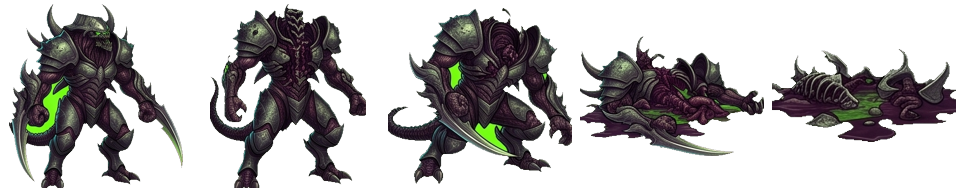
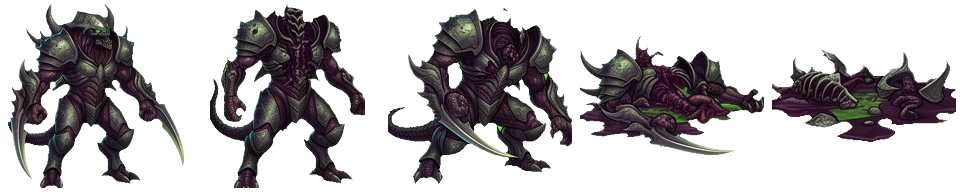
feat(hiveswarm): lane-relative pathfinding, sponge 2x, responsive gate numbers, praetorian death, transparent sheets, start-squad, audio
- Enemies now LANE-RELATIVE (hold a lane -1..1 mapped onto the road's perspective
  width) — they converge at the horizon and fan out, NEVER crossing the walls. Fixes
  'enemies come in from the side'.
- Eldritch Sponge 2x (r24); Psychoid r28.
- Gate numbers climb as fast as bullets hit (hpStep thresholds slashed 24->4).
- Praetorian: death animation now plays fully before level-complete (bossKillT 0.4->1.6);
  intro-pose green flame gone (re-sliced from Eric's cleaned Praetorian02).
- Re-sliced ALL enemies from Eric's re-exported TRANSPARENT sheets (adaptive green/alpha key).
- Starting squad ~5-20 scaling with level + Start-Squad shop (+8, restored).
- Money orbs 50% (coin sfx now audible); all 14 SFX files verified present + wired. ?v=7.

diff --git a/index.html b/index.html
@@ -111,9 +111,9 @@ const BAL = {
     minus: [[-15,-6],[-20,-9],[-26,-12],[-33,-15],[-40,-18],[-48,-22],[-56,-26],[-65,-30],[-75,-35],[-85,-40]],
     mult:  [[1.1,1.3],[1.2,1.4],[1.2,1.5],[1.3,1.6],[1.4,1.7],[1.4,1.8],[1.5,1.9],[1.6,2.0],[1.7,2.2],[1.8,2.4]],
     multCap: [1.5,1.6,1.8,2.0,2.2,2.4,2.6,2.8,3.0,3.2],
-    hpStepPlus: L => Math.round(24 + 4*(L-1)),
-    hpStepMult: L => Math.round(34 + 5*(L-1)),
-    hpStepWpn:  L => Math.round(45 + 6*(L-1)),
+    hpStepPlus: L => Math.round(4 + 1*(L-1)),    // low threshold — the gate number climbs as fast as bullets hit it
+    hpStepMult: L => Math.round(6 + 1*(L-1)),
+    hpStepWpn:  L => Math.round(10 + 2*(L-1)),
     stepDelta:  L => L <= 3 ? 1 : L <= 7 ? 2 : 3,
   },
   eco: { kill: [1,4,3,6,6], boss: L => 40 + 25*L, level: L => 80 + 40*L, queen: 2500 },
@@ -124,7 +124,7 @@ const BAL = {
 const PERKS = ['Chain Lightning','Drone Escort','Orbital Laser','Acid Rounds','Magnet','Overclock','Shield Matrix'];
 const EKIND = [ // r values set from Eric's scale-reference sheet (2026-07-16)
   {hp:2,  r:22, spd:70,  col:'#3f6', credits:1},    // 0 Xenoid
-  {hp:26, r:12, spd:26,  col:'#a3e', credits:4},    // 1 Eldritch — tiny (+20%)
+  {hp:26, r:24, spd:26,  col:'#a3e', credits:4},    // 1 Eldritch Sponge — 2x bigger
   {hp:7,  r:32, spd:44,  col:'#f55', credits:3},    // 2 Cyber-Mutant — large hulk
   {hp:12, r:18, spd:105, col:'#5ff', credits:6},    // 3 Xenoptera
   {hp:20, r:13, spd:38,  col:'#fb5', credits:6},    // 4 Subterra — small
@@ -241,7 +241,7 @@ addEventListener('pointerdown', unlockAudio); addEventListener('keydown', unlock
 // ---------- run flow ----------
 function startRun(mode='campaign') {
   G.mode=mode;G.loop=0;G.state='play';G.level=mode==='endless'?10:1;G.levelT=0;
-  G.squad = 1; G.weapon = Math.min(BAL.start.weapon + G.meta.weapon, 4);   // always start with 1 soldier
+  G.squad = startingSquad(); G.weapon = Math.min(BAL.start.weapon + G.meta.weapon, 4);
   G.bio = 0; G.bioNeed = 25; G.perks = {}; G.kills = 0; G.boss = null;G.streak=G.streakT=G.streakPeak=G.streakAward=G.chipHeal=G.shieldT=G.shieldHits=0;
   G.droneT = G.orbitalT = G.laserT = 0; G.laserSeq = 0;
   G.hitStop = G.flashT = G.squadFlash = G.bossKillT = G.vehicleT = 0; G.vehicleCD = 4;
@@ -256,7 +256,9 @@ function nextLevel() {
   if (G.level > CFG.levels) { G.state = 'win'; G.endElapsed=(performance.now()-G.runStart)/1000; save(); return; }
   G.state = 'shop'; save();
 }
-function levelStart() { G.state = 'play'; G.levelT = 0; G.boss = null; seed = 1000 + G.level * 777; gates.length = 0; G.squad = 1; }  // always start each level with 1 soldier
+// starting squad each level: ~5-20, higher with more Start-Squad shop upgrades and higher level
+function startingSquad() { return Math.max(5, 5 + (G.meta.squad || 0) * 8 + Math.floor(G.level * 0.8) + (Math.random() * 4 | 0)); }
+function levelStart() { G.state = 'play'; G.levelT = 0; G.boss = null; seed = 1000 + G.level * 777; gates.length = 0; G.squad = startingSquad(); }
 function endlessScore(){return Math.floor(G.kills*10+G.runBosses*500+G.maxSquad*2+G.loop*2000+
   Math.max(0,G.credits-G.creditsStart)*.25+(G.weapon+1)*100);}
 async function attemptRevive(){if(G.reviveUsed)return;let ok=false;try{ok=!!(window.PSDK&&await PSDK.rewarded());}catch(_){}
@@ -411,12 +413,14 @@ function spawnWave(dt) {
       : (lvl >= 4 && eliteRoll < 0.115) ? 3
       : roll < BAL.mixCyb[li] ? 2 : (roll < BAL.mixCyb[li] + BAL.mixEld[li] ? 1 : 0);
     const K = EKIND[e.kind];
-    if (G.clusterT === undefined || G.clusterT <= 0) {         // re-roll swarm cluster center ~2s
-      G.clusterX = rr(CFG.laneMargin + 50, CFG.W - CFG.laneMargin - 50); G.clusterT = 1.6 + rng() * 1.2;
+    if (G.clusterT === undefined || G.clusterT <= 0) {         // re-roll swarm cluster lane ~2s
+      G.clusterLane = rr(-0.7, 0.7); G.clusterT = 1.6 + rng() * 1.2;
     }
-    e.x = e.kind === 4 ? G.px : Math.max(CFG.laneMargin, Math.min(CFG.W - CFG.laneMargin,
-          (rng() < 0.75 ? G.clusterX + rr(-55, 55) : rr(CFG.laneMargin, CFG.W - CFG.laneMargin))));
-    e.y = e.kind === 4 ? CFG.H - 185 : -30; e.baseX = e.x; e.phase = rr(0, 6.283); e.mode = e.kind === 4 ? 1 : 0;
+    // lane -1..1 across the road; cluster most spawns, scatter the rest
+    e.lane = e.kind === 4 ? (G.px - CFG.W/2) / Math.max(1, roadHalfWidth(0.75))
+           : Math.max(-0.92, Math.min(0.92, rng() < 0.75 ? G.clusterLane + rr(-0.25, 0.25) : rr(-0.9, 0.9)));
+    e.y = e.kind === 4 ? CFG.H - 185 : -30; e.baseX = 0; e.phase = rr(0, 6.283); e.mode = e.kind === 4 ? 1 : 0;
+    e.x = CFG.W/2 + e.lane * roadHalfWidth(Math.max(0, Math.min(1, Math.pow(Math.max(0, e.y - HORIZON_Y)/(CFG.H - HORIZON_Y), 1/1.6))));
     e.vx = rr(-18, 18); e.vy = K.spd + lvl * 7 + CFG.scrollSpd * 0.35;
     e.maxhp = e.hp = (e.kind < 3 ? [BAL.hp.bio, BAL.hp.eld, BAL.hp.cyb][e.kind](lvl)
       : e.kind === 3 ? 30 + 7 * lvl
@@ -452,7 +456,7 @@ function damageEnemy(e, dmg, x, y) {
       AUDIO.sample(['xenohit','eldritchdie','xenohit','xenopterahit','subterrahit','xenohit'][e.kind] || 'xenohit'); }
     gore(e.x, e.y, e.kind);
     if (e.kind === 2) queueBlast(e.x, e.y, 55, 6);    // cyber-mutant explodes (queued: chains iterate, never recurse)
-    if (rng() < 0.18) { const p = pickups.alloc(); if (p) { p.x = e.x; p.y = e.y; p.kind = rng() < 0.8 ? 0 : 1; } }  // ~half the money orbs
+    if (rng() < 0.20) { const p = pickups.alloc(); if (p) { p.x = e.x; p.y = e.y; p.kind = rng() < 0.5 ? 0 : 1; } }  // 50% money orbs (coin sfx audible)
     enemies.release(e);
   }
 }
@@ -547,7 +551,7 @@ const SHOP = [
   // R3 economy: combat growth 1.5, utility 1.6, rank caps (balance.json v3.0)
   // Modest, useful-not-game-breaking meta upgrades (you should still GROW via gates in-run)
   {k:'dmg',   name:'Base Damage +10%', max:12, cost: l => Math.round(60  * Math.pow(1.55, l))},
-  {k:'squad', name:'Start Squad +4',   max:8,  cost: l => Math.round(90  * Math.pow(1.55, l))},
+  {k:'squad', name:'Start Squad +8',   max:8,  cost: l => Math.round(90  * Math.pow(1.55, l))},
   {k:'weapon',name:'Start Weapon +',   max:4,  cost: l => Math.round(220 * Math.pow(1.6, l))},
   {k:'perkSlot',name:'Perk Slot +',    max:2,  cost: l => Math.round(600 * Math.pow(1.7, l))},
   {k:'vehicleDrop',name:'Tank Drop +', max:5,  cost: l => Math.round(320 * Math.pow(1.65, l))},
@@ -631,24 +635,24 @@ function update(dt) {
       if (Math.abs(e.x - n.x) < 140 && Math.abs(e.y - n.y) < 160) { e.buffed = 1; break; }
     }
     if (e.mode === 1) { if (e.t >= 0.8) { e.mode = 0; e.t = 0; sfx('elite'); } else return; }
-    if (e.kind === 3) {                                // winged diver: wide diving swoop
-      e.x = e.baseX + Math.sin(e.t * 4 + e.phase) * 70;
+    // LANE-RELATIVE position: e.lane (-1..1) maps onto the road's perspective width, so enemies
+    // converge at the horizon and fan out as the road widens — they NEVER cross the pink/blue walls.
+    const ez = Math.max(0, Math.min(1, Math.pow(Math.max(0, e.y - HORIZON_Y) / (CFG.H - HORIZON_Y), 1/1.6)));
+    const hw = roadHalfWidth(ez);
+    if (e.kind === 3) {                                // winged diver: wide swoop within the lane
+      const swoop = Math.sin(e.t * 4 + e.phase) * 0.35;
+      e.x = CFG.W/2 + Math.max(-0.95, Math.min(0.95, e.lane + swoop)) * hw;
       e.y += e.vy * dt;
     } else {
-      // organic xeno crawl: tight body wiggle + slow meander + forward lurch-and-settle.
-      // Deliberately NOT a lane-wide left/right slide — that read like Frogger traffic.
       if (e.wig === undefined) e.wig = 2.0 + (e.phase * 3.3) % 2.6;   // per-enemy skitter rate
-      const weave = Math.sin(e.t * e.wig + e.phase) * 13             // tight skitter
-                  + Math.sin(e.t * 0.7 + e.phase * 2.0) * 20;        // slow drifting meander
-      e.baseX += (G.px - e.baseX) * 0.05 * dt;         // gentle pull down the corridor toward the squad
-      e.x = Math.max(CFG.laneMargin - 20, Math.min(CFG.W - CFG.laneMargin + 20, e.baseX + weave));
+      const weave = Math.sin(e.t * e.wig + e.phase) * 0.05 + Math.sin(e.t * 0.7 + e.phase * 2.0) * 0.08;
+      e.lane += (((G.px - CFG.W/2) / Math.max(1, hw)) - e.lane) * 0.05 * dt;   // gentle drift toward the squad's lane
+      const lane = Math.max(-0.96, Math.min(0.96, e.lane + weave));
+      e.x = CFG.W/2 + lane * hw;
       const crawl = 0.5 + 0.8 * Math.max(0, Math.sin(e.t * (2.3 + (e.phase % 1.0)) + e.phase));  // creep surges
-      e.y += e.vy * crawl * (e.buffed ? 1.45 : 1) * dt;   // psychoid aura urges the swarm forward
+      e.y += e.vy * crawl * (e.buffed ? 1.45 : 1) * dt;
     }
-    // keep every enemy INSIDE the road corridor (perspective-correct — no clipping past the walls)
-    { const ez = Math.max(0, Math.min(1, Math.pow(Math.max(0, e.y - HORIZON_Y) / (CFG.H - HORIZON_Y), 1/1.6)));
-      const ehw = roadHalfWidth(ez) - e.r * 0.6;
-      e.x = Math.max(CFG.W/2 - ehw, Math.min(CFG.W/2 + ehw, e.x)); }
+    { const ehw = hw - e.r * 0.4; e.x = Math.max(CFG.W/2 - ehw, Math.min(CFG.W/2 + ehw, e.x)); }  // sprite-radius safety
     if (e.y > CFG.H + 40) { enemies.release(e); return; }
     // contact with squad zone
     if (e.y > CFG.H - 150 && Math.abs(e.x - G.px) < 60) {
@@ -748,7 +752,7 @@ function bossAttackUpdate(B, dt) {
   if(B.attackClock>=tele+active)B.attack=null;
 }
 function bossKill() {
-  if(!G.boss||G.boss.dead)return;G.boss.dead=true;G.shake=10;G.bossKillT=.4;G.flashT=.3;
+  if(!G.boss||G.boss.dead)return;G.boss.dead=true;G.shake=10;G.bossKillT=G.boss.queen?0.6:1.6;G.flashT=.3;  // let the death animation play out
   fx(G.boss.x,G.boss.y,'#ff0');fx(G.boss.x,G.boss.y,'#f4f');gore(G.boss.x,G.boss.y,0);sfx('boss');AUDIO.sample('explosion2');
   G.credits += BAL.eco.boss(G.level) + BAL.eco.level(G.level) + (G.boss.queen ? BAL.eco.queen : 0);
   G.runBosses++;if(G.mode==='campaign'&&G.boss.queen){G.meta.endless=true;save();}
@@ -883,7 +887,7 @@ const IMGS={};
 // ---------- animated enemy sprite strips (sliced by slice_enemies.py, 128px square cells) ----------
 const ANIM={};
 (function(){
-  const V='?v=6';                                 // bump to bust the browser cache when sprites change
+  const V='?v=7';                                 // bump to bust the browser cache when sprites change
   const load=(src,frames,fps)=>{const im=new Image();im.onload=()=>im.ok=true;im.onerror=()=>im.ok=false;im.src=src+V;return {img:im,frames,fps};};
   ANIM[0]=load('assets/xeno_walk.png',4,8);       // biomorph swarmer — walk cycle
   ANIM[1]=load('assets/eldritch_ooze.png',4,4);   // eldritch sponge — idle/ooze
@@ -1221,7 +1225,7 @@ function drawBoss() {
   if (!B.queen && window.PRAET && PRAET.idle.img.ok) {
     let a = PRAET.idle, f;
     if (B.dead && PRAET.death.img.ok) { a = PRAET.death;
-      f = Math.min(a.frames - 1, Math.floor((1 - Math.max(0, G.bossKillT) / 0.4) * a.frames)); }
+      f = Math.min(a.frames - 1, Math.floor((1 - Math.max(0, G.bossKillT) / 1.6) * a.frames)); }
     else if (B.attack && PRAET.attack.img.ok) { a = PRAET.attack; f = Math.floor(B.attackClock * a.fps) % a.frames; }
     else { f = Math.floor(B.t * a.fps) % a.frames; }
     const cs = a.img.height, breathe = B.dead ? 1 : 1 + 0.03 * Math.sin(B.t * 2);

diff --git a/slice_enemies.py b/slice_enemies.py
@@ -30,12 +30,12 @@ def _green(a):
     return (g > 100) & (g - r > 30) & (g - b > 30)
 
 
-def key_green(a):
-    return _green(a)                                        # remove ALL green (no intentional green on creature)
+def key_green(a):                                          # works for green OR transparent sheets
+    return _green(a) | (a[..., 3] < 128)
 
 
-def key_green_flood(a):
-    return _border_flood(_green(a))                         # keep interior green (Subterra head, Xenoptera core)
+def key_green_flood(a):                                    # keep interior green (Subterra head, Xenoptera core)
+    return _border_flood(_green(a)) | (a[..., 3] < 128)
 
 
 def key_dark(a):                                            # tight key on the (48,58,67) panel + existing alpha
@@ -139,7 +139,7 @@ def make_strip(sheet, region, cols, keyfn, frames, out_name, cell=128, largest=T
 # Xenoid (biomorph, kind 0): 4x4 grid, walk cycle = row 0 frames 0-3
 make_strip(E+"Xenoid.png", (0.0, 0.055, 1.0, 0.30), 4, key_green, [0, 1, 2, 3], "xeno_walk.png")
 # Psychoid (kind 5): 4x2 grid, swim loop = row 0 frames 0-3
-make_strip(E+"Psychoid.png", (0.0, 0.06, 1.0, 0.50), 4, key_green, [0, 1, 2, 3], "psychoid_swim.png")
+make_strip(E+"Psychoid 02.png", (0.0, 0.06, 1.0, 0.50), 4, key_green, [0, 1, 2, 3], "psychoid_swim.png")
 # Cyber Mutant (kind 2): top idle row = 4 frames — taller band so the LEGS aren't cut off
 make_strip(E+"Cyber Mutant.png", (0.0, 0.012, 1.0, 0.27), 4, key_green, [0, 1, 2, 3], "cyber_idle.png")
 # Eldritch Sponge (kind 1): auto-detect top-row frames, take idle + ooze (first 4) as the loop
@@ -147,13 +147,12 @@ auto_strip(E+"Eldritch Sponge.png", (0.0, 0.05, 1.0, 0.52), key_green, "eldritch
 # Subterra (burrower, kind 4): scanning row = 5 frames (head weaving); gray-keyed
 make_strip(E+"Subterra.png", (0.0, 0.365, 1.0, 0.55), 5, key_green_flood, [0, 1, 2, 3, 4], "subterra_scan.png")
 # Xenoptera (winged, kind 3): flight loop = top row 4 frames (green bg + green core -> flood)
-make_strip(E+"Xenoptera.png", (0.0, 0.06, 1.0, 0.34), 4, key_green_flood, [0, 1, 2, 3], "xenoptera_fly.png")
+make_strip(E+"Xenoptera02.png", (0.0, 0.06, 1.0, 0.34), 4, key_green_flood, [0, 1, 2, 3], "xenoptera_fly.png")
 # Player soldier (rear view): shooting loop = top row 4 frames (dark bg -> flood)
 make_strip("Player soilders.png", (0.0, 0.045, 1.0, 0.33), 4, key_dark, [0, 1, 2, 3], "soldier_fire.png")
 # Praetorian mini-boss ANIMATIONS (green bg + green eyes -> flood): idle / attack / death rows
-auto_strip(E+"Mini boss Praetorian.png", (0.0, 0.015, 1.0, 0.205), key_green_flood, "praet_idle.png",   cell=192, minw=120)
-auto_strip(E+"Mini boss Praetorian.png", (0.0, 0.225, 1.0, 0.395), key_green_flood, "praet_attack.png", cell=192, minw=120)
-auto_strip(E+"Mini boss Praetorian.png", (0.0, 0.775, 1.0, 0.99),  key_green_flood, "praet_death.png",  cell=192, minw=120)
-# Bosses: one clean hero frame each (green bg + green core -> flood)
-make_strip("Enemies\\Mini boss Praetorian.png", (0.0, 0.06, 0.5, 0.55), 1, key_green_flood, [0], "praetorian_hero.png", cell=192)
-make_strip("Enemies\\Alien  Queen.png", (0.30, 0.10, 0.70, 0.95), 1, key_green_flood, [0], "queen_hero.png", cell=224)
+auto_strip(E+"Mini boss Praetorian02.png", (0.0, 0.015, 1.0, 0.205), key_green_flood, "praet_idle.png",   cell=192, minw=120)
+auto_strip(E+"Mini boss Praetorian02.png", (0.0, 0.225, 1.0, 0.395), key_green_flood, "praet_attack.png", cell=192, minw=120)
+auto_strip(E+"Mini boss Praetorian02.png", (0.0, 0.775, 1.0, 0.99),  key_green_flood, "praet_death.png",  cell=192, minw=120)
+# Queen hero still (Praetorian uses its animation, not a still)
+auto_strip(E+"Alien  Queen02.png", (0.0, 0.05, 1.0, 0.95), key_green_flood, "queen_hero.png", take=[0], cell=256, minw=150)
